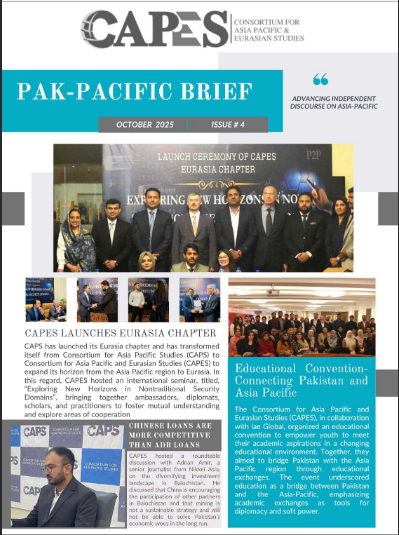
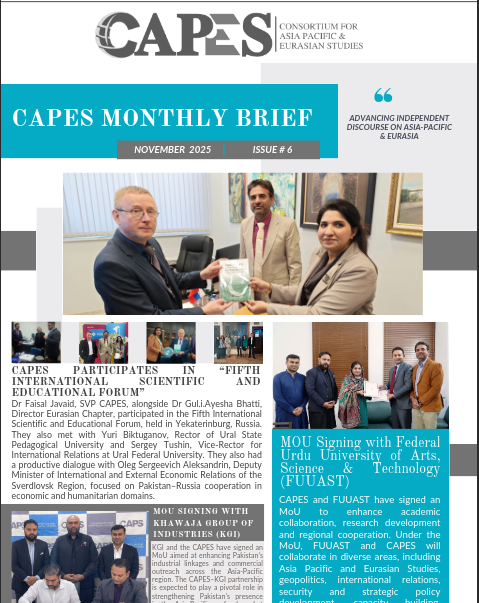
16 , 18 , and 20 December news uploaded and November Newletter image Published

diff --git a/lib/news.ts b/lib/news.ts
@@ -11,6 +11,46 @@ export interface NewsItem {
 
 const news: NewsItem[] = [ 
 
+      {
+    id: "139",
+    title: "PM meets Australian envoy, slams Bondi attack ",
+    date: "December 20, 2025",
+    href: "https://www.dawn.com/news/1962203",
+    tag: "Analysis",
+    image: "/Assets/NewsImages/pm-terror-attacks.jpeg",
+    imageAlt: "",
+   },  
+
+
+     {
+    id: "138",
+    title: "PM welcomes Australia mining interest",
+    date: "December 20, 2025",
+    href: "https://tribune.com.pk/story/2583112/pm-welcomes-australia-mining-interest?amp=1",
+    tag: "Analysis",
+    image: "/Assets/NewsImages/pm-australia.webp",
+    imageAlt: "",
+   },  
+
+       {
+    id: "137",
+    title: "Brunei opens scholarships for Pakistani students",
+    date: "December 18, 2025",
+    href: "https://www.pakistantoday.com.pk/2025/12/17/brunei-opens-scholarships-for-pakistani-students/#:~:text=The%20Government%20of%20Brunei%20Darussalam,applications%20by%20February%2015%2C%202026",
+    tag: "Analysis",
+    image: "/Assets/NewsImages/scholarship.jpg",
+    imageAlt: "",
+   },  
+     {
+    id: "136",
+    title: "Press Release – ISSI holds Bilateral Think Tank Dialogue with Shanghai Institutes of International Studies (SIIS)",
+    date: "December 16, 2025",
+    href: "https://issi.org.pk/press-release-issi-holds-bilateral-think-tank-dialogue-with-shanghai-institutes-of-international-studies-siis/",
+    tag: "Analysis",
+    image: "/Assets/NewsImages/issi.jpeg",
+    imageAlt: "",
+   },  
+
         {
     id: "135",
     title: "Pak-NZ Business Council to boost bilateral trade ties+",
